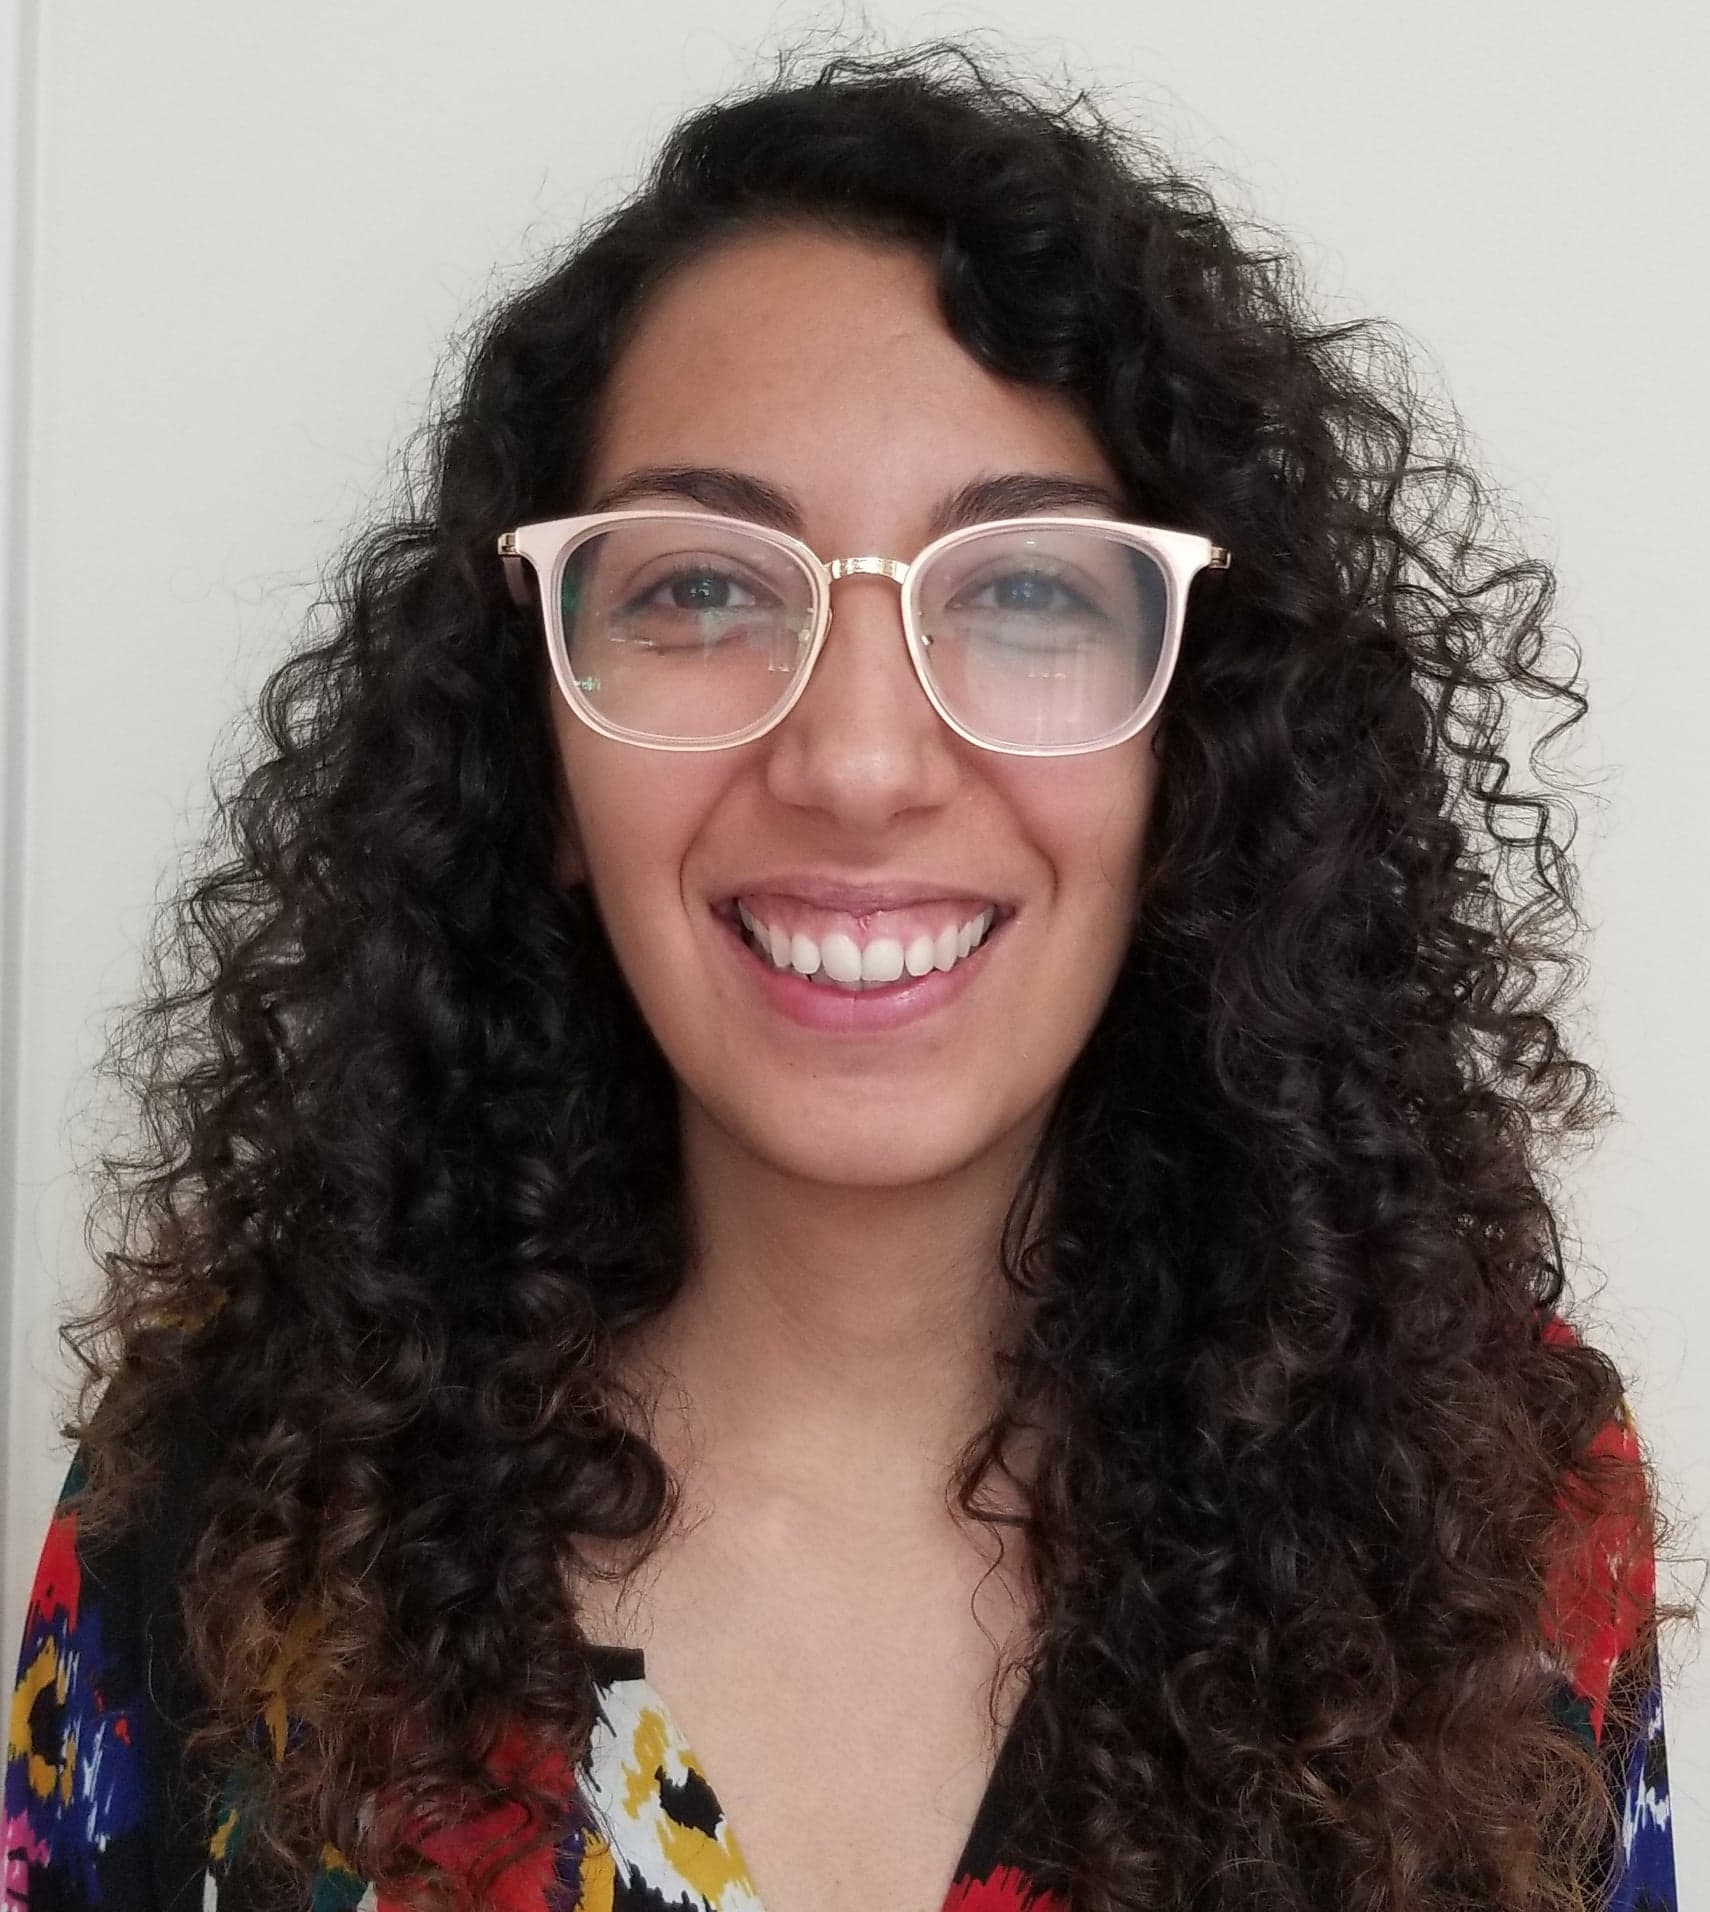
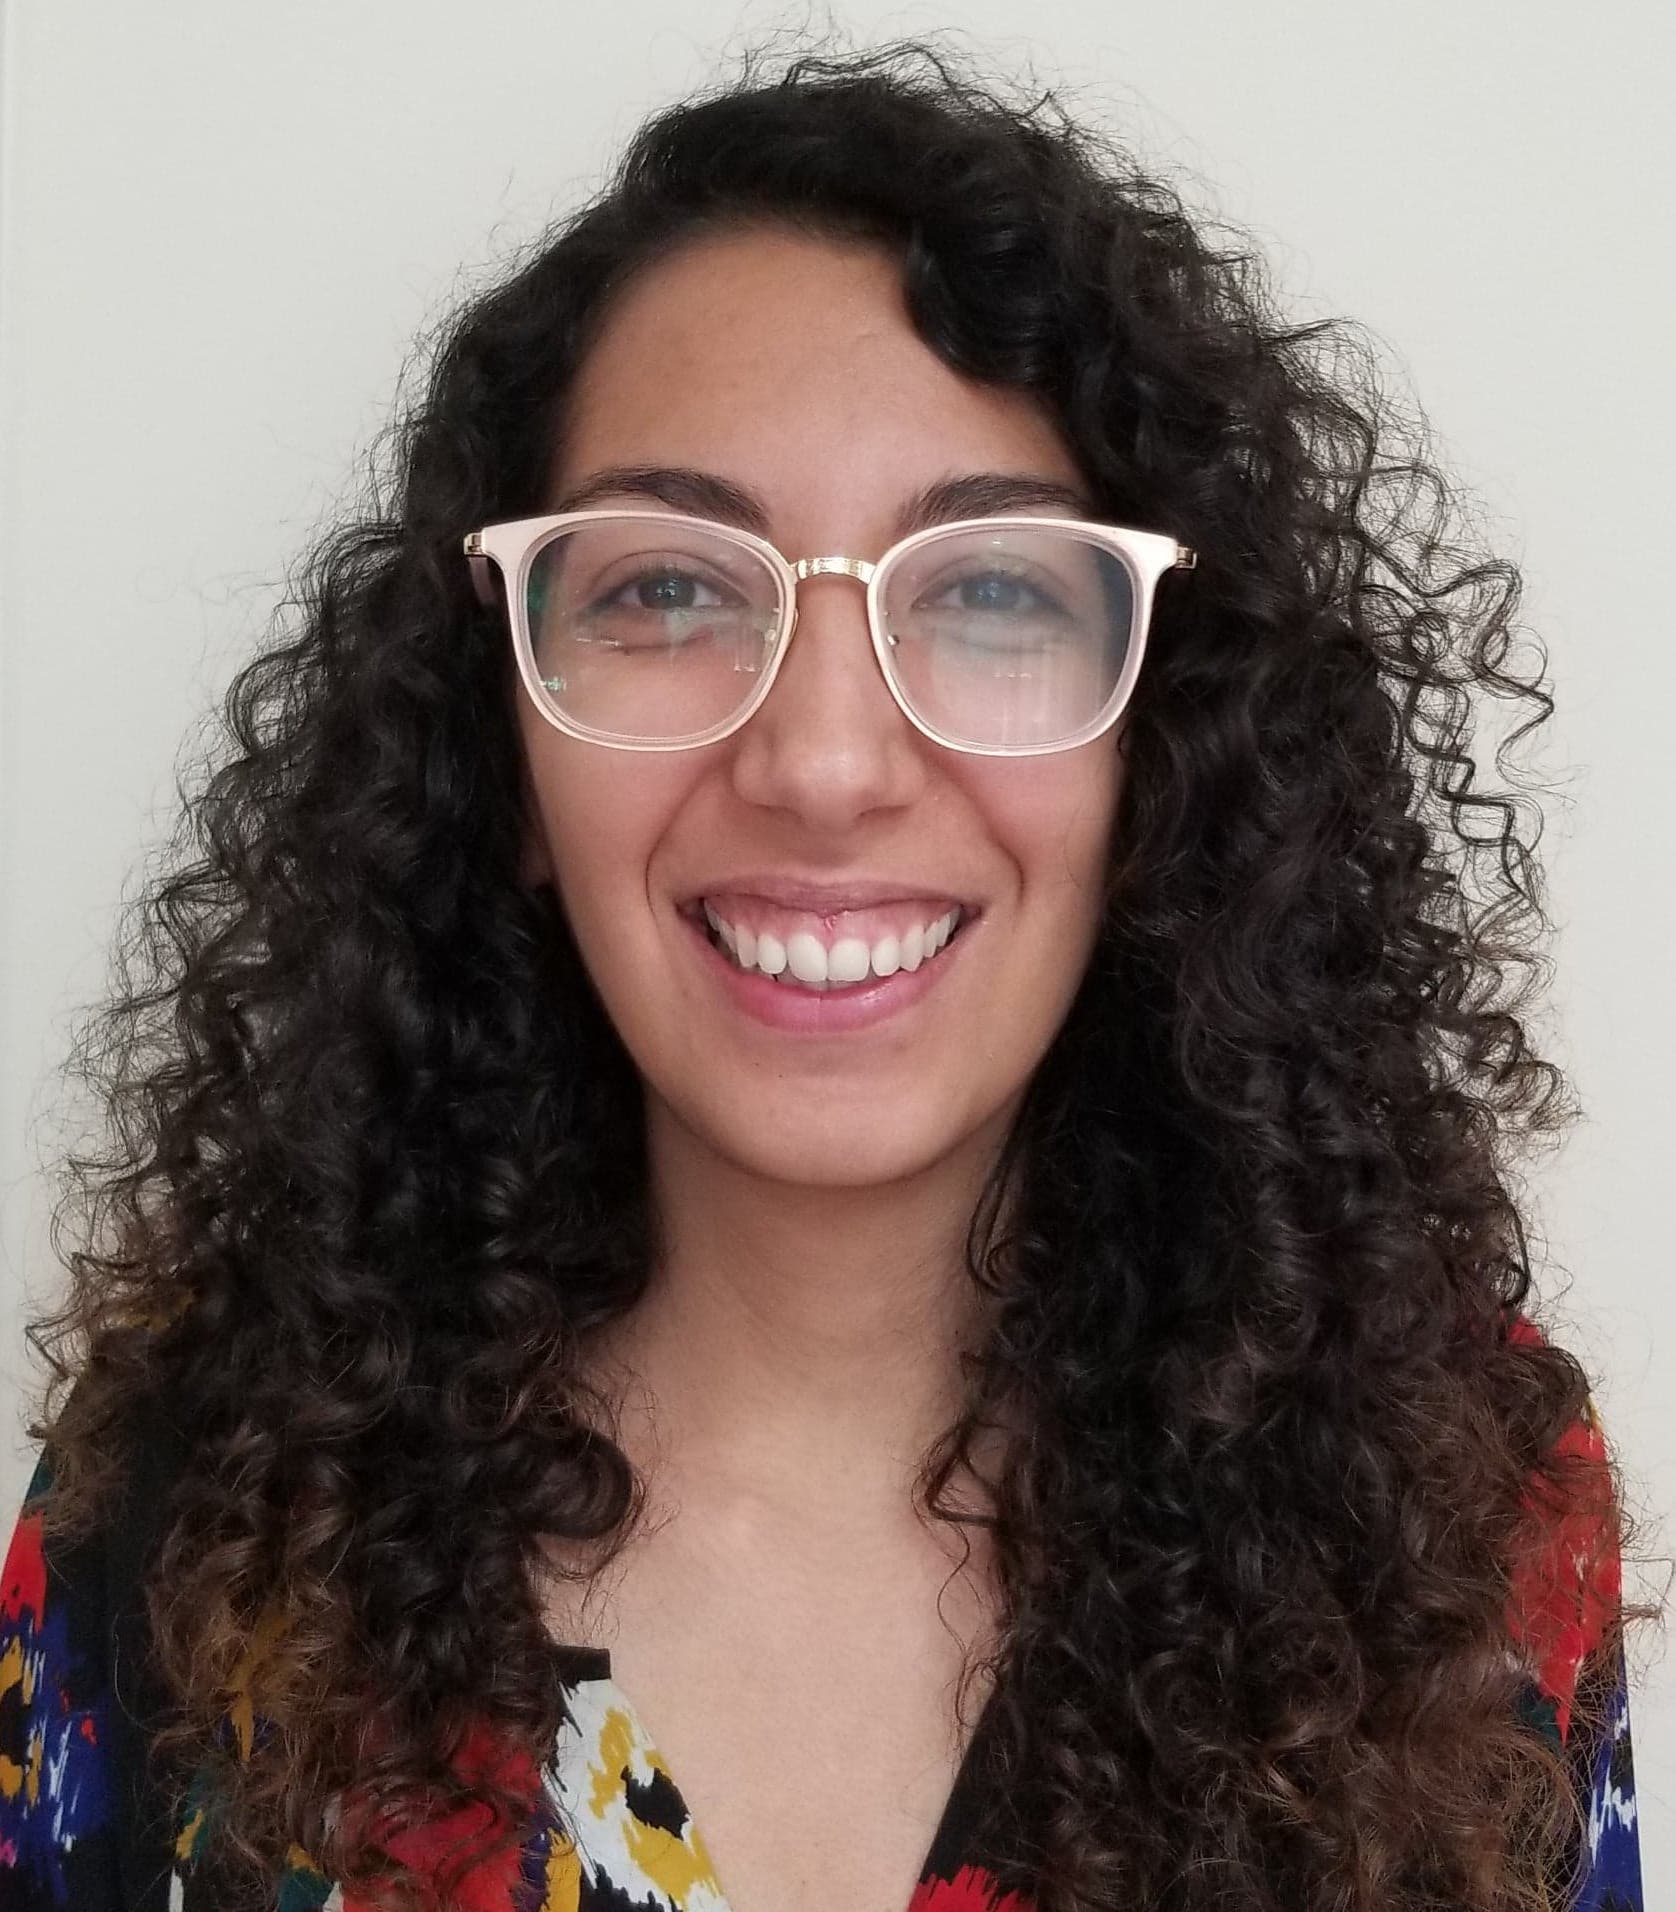
website final version 1

diff --git a/index.html b/index.html
@@ -1,7 +1,8 @@
 <html>
   <head>
     <link rel="stylesheet" href="styles.css" />
-    <link rel="stylesheet" type="text/css" href="https://fonts.googleapis.com/css2?family=Poppins:wght@100;200;300;400&display=swap" /> 
+    <link rel="stylesheet" type="text/css" href="https://fonts.googleapis.com/css2?family=Poppins:wght@100;200;300;400&display=swap" />
+    <link rel="stylesheet" type="text/css" href="https://fonts.googleapis.com/css2?family=Lato:wght@100;200;300;400&display=swap" /> 
     <link rel='icon' href='favicon.png' type='image/x-icon'/>
     <meta charset="utf-8"/>
     <title>Talie Town</title>
@@ -19,18 +20,18 @@
             <ul>
               <li><a href="#about-me">About Me</a></li>
 
+              <li><a href="#projects">Projects</a></li>
+
               <li><a href="#publications">Publications</a></li>
 
-              <li>Other Stuff</li>
+              <li><a href="#other">Other</a></li>
             </ul>
           </div>
         </div>
 
         <div class="intro">
           <div class="headshot">
-            <picture>
-              <img src="images/pigeon.jpg" alt="full image of me">
-            </picture>
+            <img src="images/headshot.jpg" alt="full image of me">
           </div>
 
           <div class="self-descrip">
@@ -38,18 +39,51 @@
               About me
             </div>
             <div class="inner-text">
-              Some kinda description I guess. I'm a Ph.D. student at Brown. Link to Jeff here. Something about Brandeis probably. Then one or two full sentences about my work specifically.
+              I'm a second year PhD student in computer science at Brown University.
+              I work in the <a href="https://hci.brown.edu/">Brown HCI Lab</a>, advised by <a href="https://jeffhuang.com/">Prof. Jeff Huang</a>.
+              My research focuses on the effect of online communication on mental health.
+              Previously, I worked as a software engineer at <a href="https://constructor.io/">constructor.io</a>.
+              I graduated from Brandeis University in 2018, with a degree in Computer Science and Psychology.
             </div>
 
 
-            <div class="inner-text">
+            <div class="personal-links">
               <ul>
                 <li><a href="https://github.com/Shmaltalk">Github</a></li>
                 <li><a href="https://scholar.google.com/citations?hl=en&user=xtcK73oAAAAJ">Google Scholar</a></li>
-                <li><a href="http://www.danielyeow.com/2011/drawing-molecules/">idk w/e</a></li>
+                <li><a href="https://twitter.com/talietown">Twitter</a></li>
+                <li><a href="">CV</a></li>
               </ul>
             </div>
           </div>
+        </div>
+
+
+        <div class="proj-list" id="projects">
+          <div class="subheading">
+            Research Projects
+          </div>
+
+          <div class="proj">
+            <div class="proj-title">
+              <span style="font-weight:bold;">Chime:</span> a social mood-tracking app that encourages social support through emoji-only communication.
+            </div>
+
+            <div class="proj-links">
+              <a href="">Website (Coming soon!)</a>
+            </div>
+          </div>
+
+          <div class="proj">
+            <div class="proj-title">
+              <span style="font-weight:bold;">Sochiatrist:</span> a social data extractor used to predict signals of mental health from social messaging data.
+            </div>
+
+            <div class="proj-links">
+              <a href="https://sochiatrist.cs.brown.edu/">Website</a>
+            </div>
+          </div>
+
         </div>
 
         <div class="pubs-list" id="publications">
@@ -62,11 +96,73 @@
               Sochiatrist: Signals of Affect in Messaging Data
             </div>
             <div class="pub-authors">
-              <em>Talie Massachi</em>, Grant Fong, Varun Mathur, Sachin Pendse, Gabriela Hoefer, Jessica Fu, Chong Wang, Nikita Ramoji, Nicole Nugent, Megan Ranney, Daniel Dickstein, Michael Armey, Ellie Pavlick, Jeff Huang 
+              <em>Talie Massachi</em>, Grant Fong, Varun Mathur, Sachin Pendse, Gabriela Hoefer, Jessica Fu, Chong Wang, Nikita Ramoji, Nicole Nugent, Megan Ranney, Daniel Dickstein, Michael Armey, Ellie Pavlick, Jeff Huang
+              (CSCW 2020, to appear)
+              <a href="https://jeffhuang.com/papers/Sochiatrist_CSCW20.pdf">PDF</a>
+            </div>
+          </div>
+
+          <div class="pub">
+            <div class="pub-title">
+              Racing Heart and Sweaty Palms
+            </div>
+            <div class="pub-authors">
+              Mathieu Chollet, <em>Talie Massachi</em>, Stefan Scherer
+              (IVA 2017)
+              <a href="https://jeffhuang.com/papers/Sochiatrist_CSCW20.pdf">PDF</a>
             </div>
           </div>
 
         </div>
+
+
+        <div class="others" id="other">
+          <div class="subheading">
+            Other Fun Things
+          </div>
+
+          <div class="other-list">
+
+            <div class="other-obj">
+              <div class="other-img">
+                <img src="images/pigeon.jpg" alt="friendo">
+              </div>
+              <div class="other-text">
+                <div class="other-descrip">
+                  My social media avatar, commissioned from Lianne Pflug (@loonpflug).
+                </div>
+                
+                <div class="other-links">
+                  <a href="https://twitter.com/loonpflug">Twitter</a> 
+                  <a href="https://www.instagram.com/loonpflug/">Instagram</a> 
+                  <a href="https://loonpflug.storenvy.com/">Store</a>
+                </div>
+              </div>
+            </div>
+
+            <div class="other-obj">
+              <div class="other-img">
+                <img src="images/m3ap.png" alt="friendo">
+              </div>
+              <div class="other-text">
+                <div class="other-descrip">
+                  <a href="https://rmarcus.info/m3ap/web/index.html">M3ap</a>, a mandala-inspired music visualizer. A project from Hack @ Brown 2017.
+                </div>
+                
+                <div class="other-links">
+                  I made this with 
+                  <a href="https://rmarcus.info">Ryan Marcus</a> and 
+                  <a href="https://sofiya.io">Sofiya Semenova</a>.
+                </div>
+              </div>
+            </div>
+
+
+          </div>
+
+
+        </div>
+
       </div>
     </div>
   </body>

diff --git a/styles.css b/styles.css
@@ -4,6 +4,8 @@ body {
   font-family: Poppins;
   font-weight: 300;
   font-size: 1em;
+  --link-color: #4394B2;
+  /* --link-color: #7f0990, #004B48, #177E89, #69995D, #090C9B; */
   /* border-top: 2px solid gray; */
 }
 .main-column {
@@ -42,7 +44,6 @@ body {
   display: flex;
   align-items: stretch;
   justify-content: space-between;
-  color: rgb(44, 44, 43);
 }
 
 .menu > ul > li {
@@ -51,25 +52,29 @@ body {
 }
 
 .menu > ul > li:hover {
-  border-top: 2px solid black;
+  border-top: 2px solid var(--link-color);
 }
 
 .menu > ul > li > a {
   text-decoration: none;
 }
 
+
+
+
 .intro {
   display: flex;
   height: auto;
   flex-direction: row;
   padding-top: 35px;
+  padding-bottom: 8px;
   /* width: 75%; */
   margin: auto;
 }
 
 .headshot {
   width: 33%;
-  max-width: 400px;
+  max-width: 270px;
   padding-top: 36px;
 }
 
@@ -86,15 +91,80 @@ body {
   padding-top: 25px;
 }
 
+.personal-links > ul{
+  display: flex;
+  align-items: stretch;
+  justify-content: space-between;
+}
+
+
+
+
 .pubs-list {
   /* width: 75%;
   margin: auto; */
-  padding-top: 15px;
+  padding-top: 7px;
+}
+
+.pub {
+  padding-bottom: 8px;
 }
 
 .pub-title {
   font-weight: bold;
 }
+
+.pub-authors {
+  font-size: .9em;
+}
+
+
+
+
+
+.proj-list {
+  padding-top: 7px; /* 15px from the pubs list - 8 because pubs have padding bottom*/
+}
+
+.proj {
+  padding-bottom: 8px;
+}
+
+.proj-title {
+  /* font-weight: bold; */
+  padding-right: 3px;
+}
+
+
+
+
+.other-list {
+  display: flex;
+  flex-direction: row;
+  flex-wrap: wrap;
+  justify-content: space-between;
+}
+
+.other-obj {
+  display: flex;
+  min-width: 350px;
+  padding-bottom: 8px;
+}
+
+.other-img {
+  padding-top: 6px;
+  min-width: 100px;
+  max-width: 100px;
+
+}
+
+.other-text {
+  padding-left: 15px;
+}
+
+
+
+
 
 img {
   max-width: 100%;
@@ -109,7 +179,7 @@ ul {
 
 /* Link color specifications */
 a {
-  color: black;
+  color: var(--link-color);
 }
 
 
